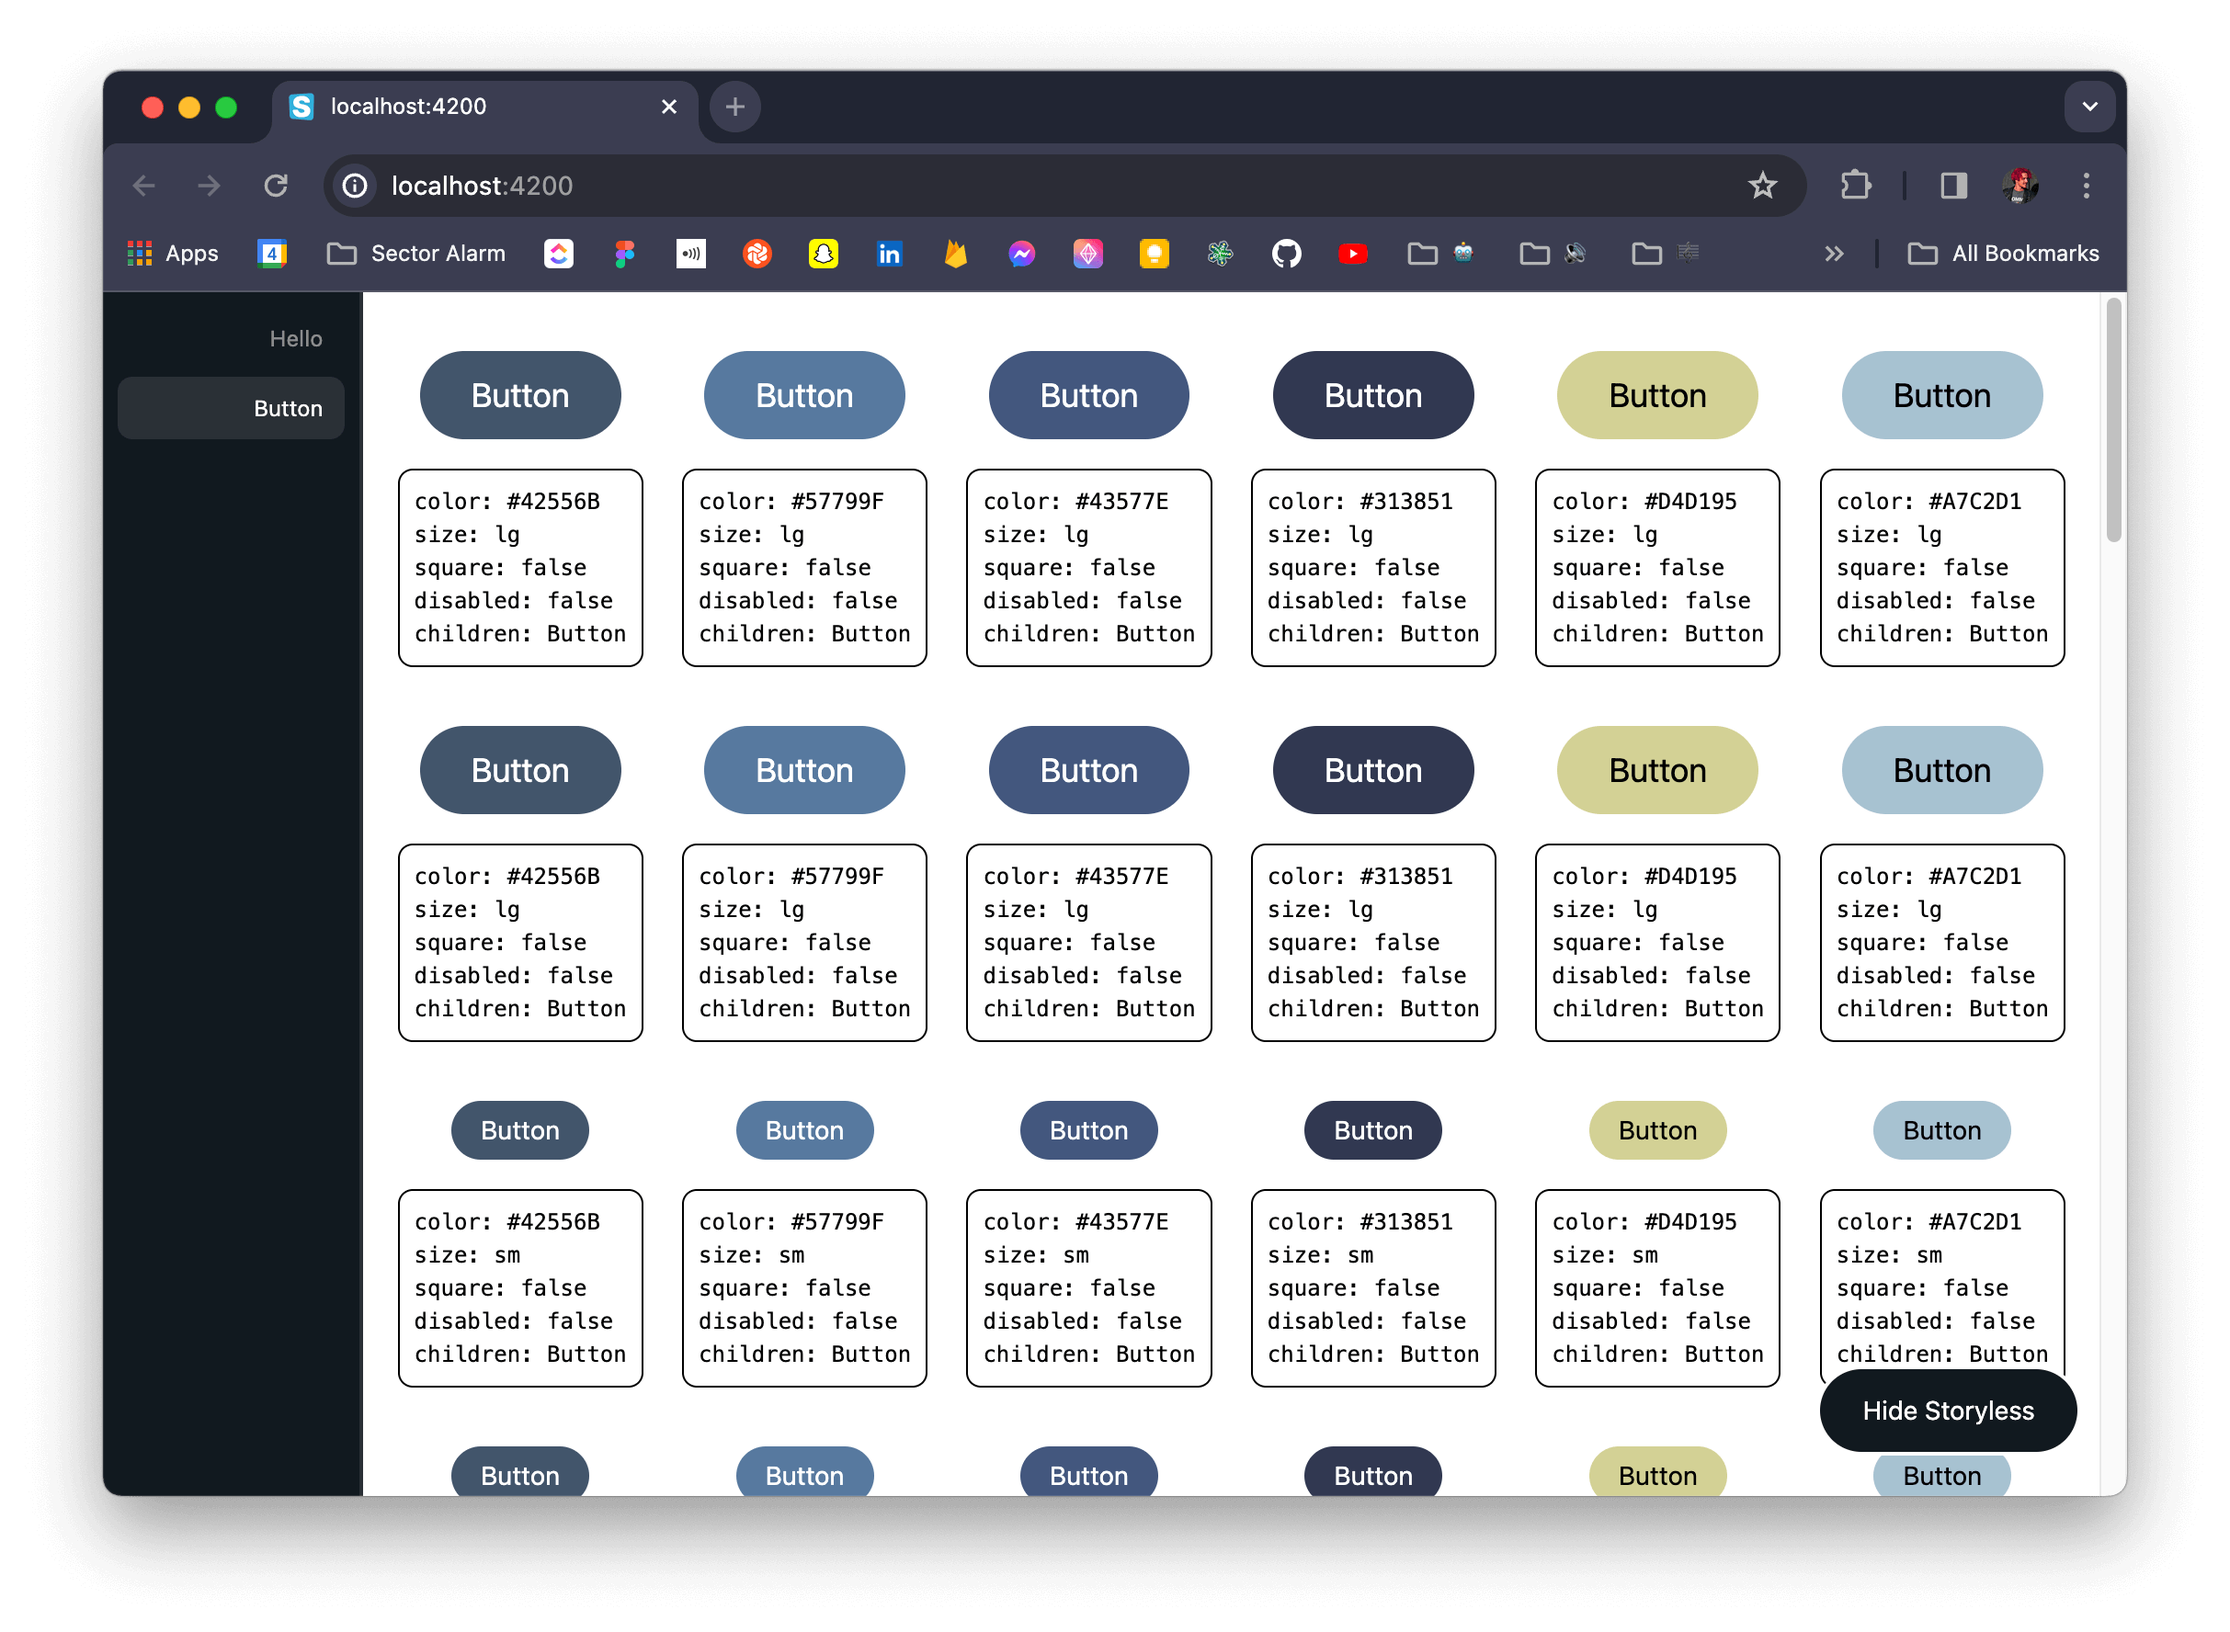
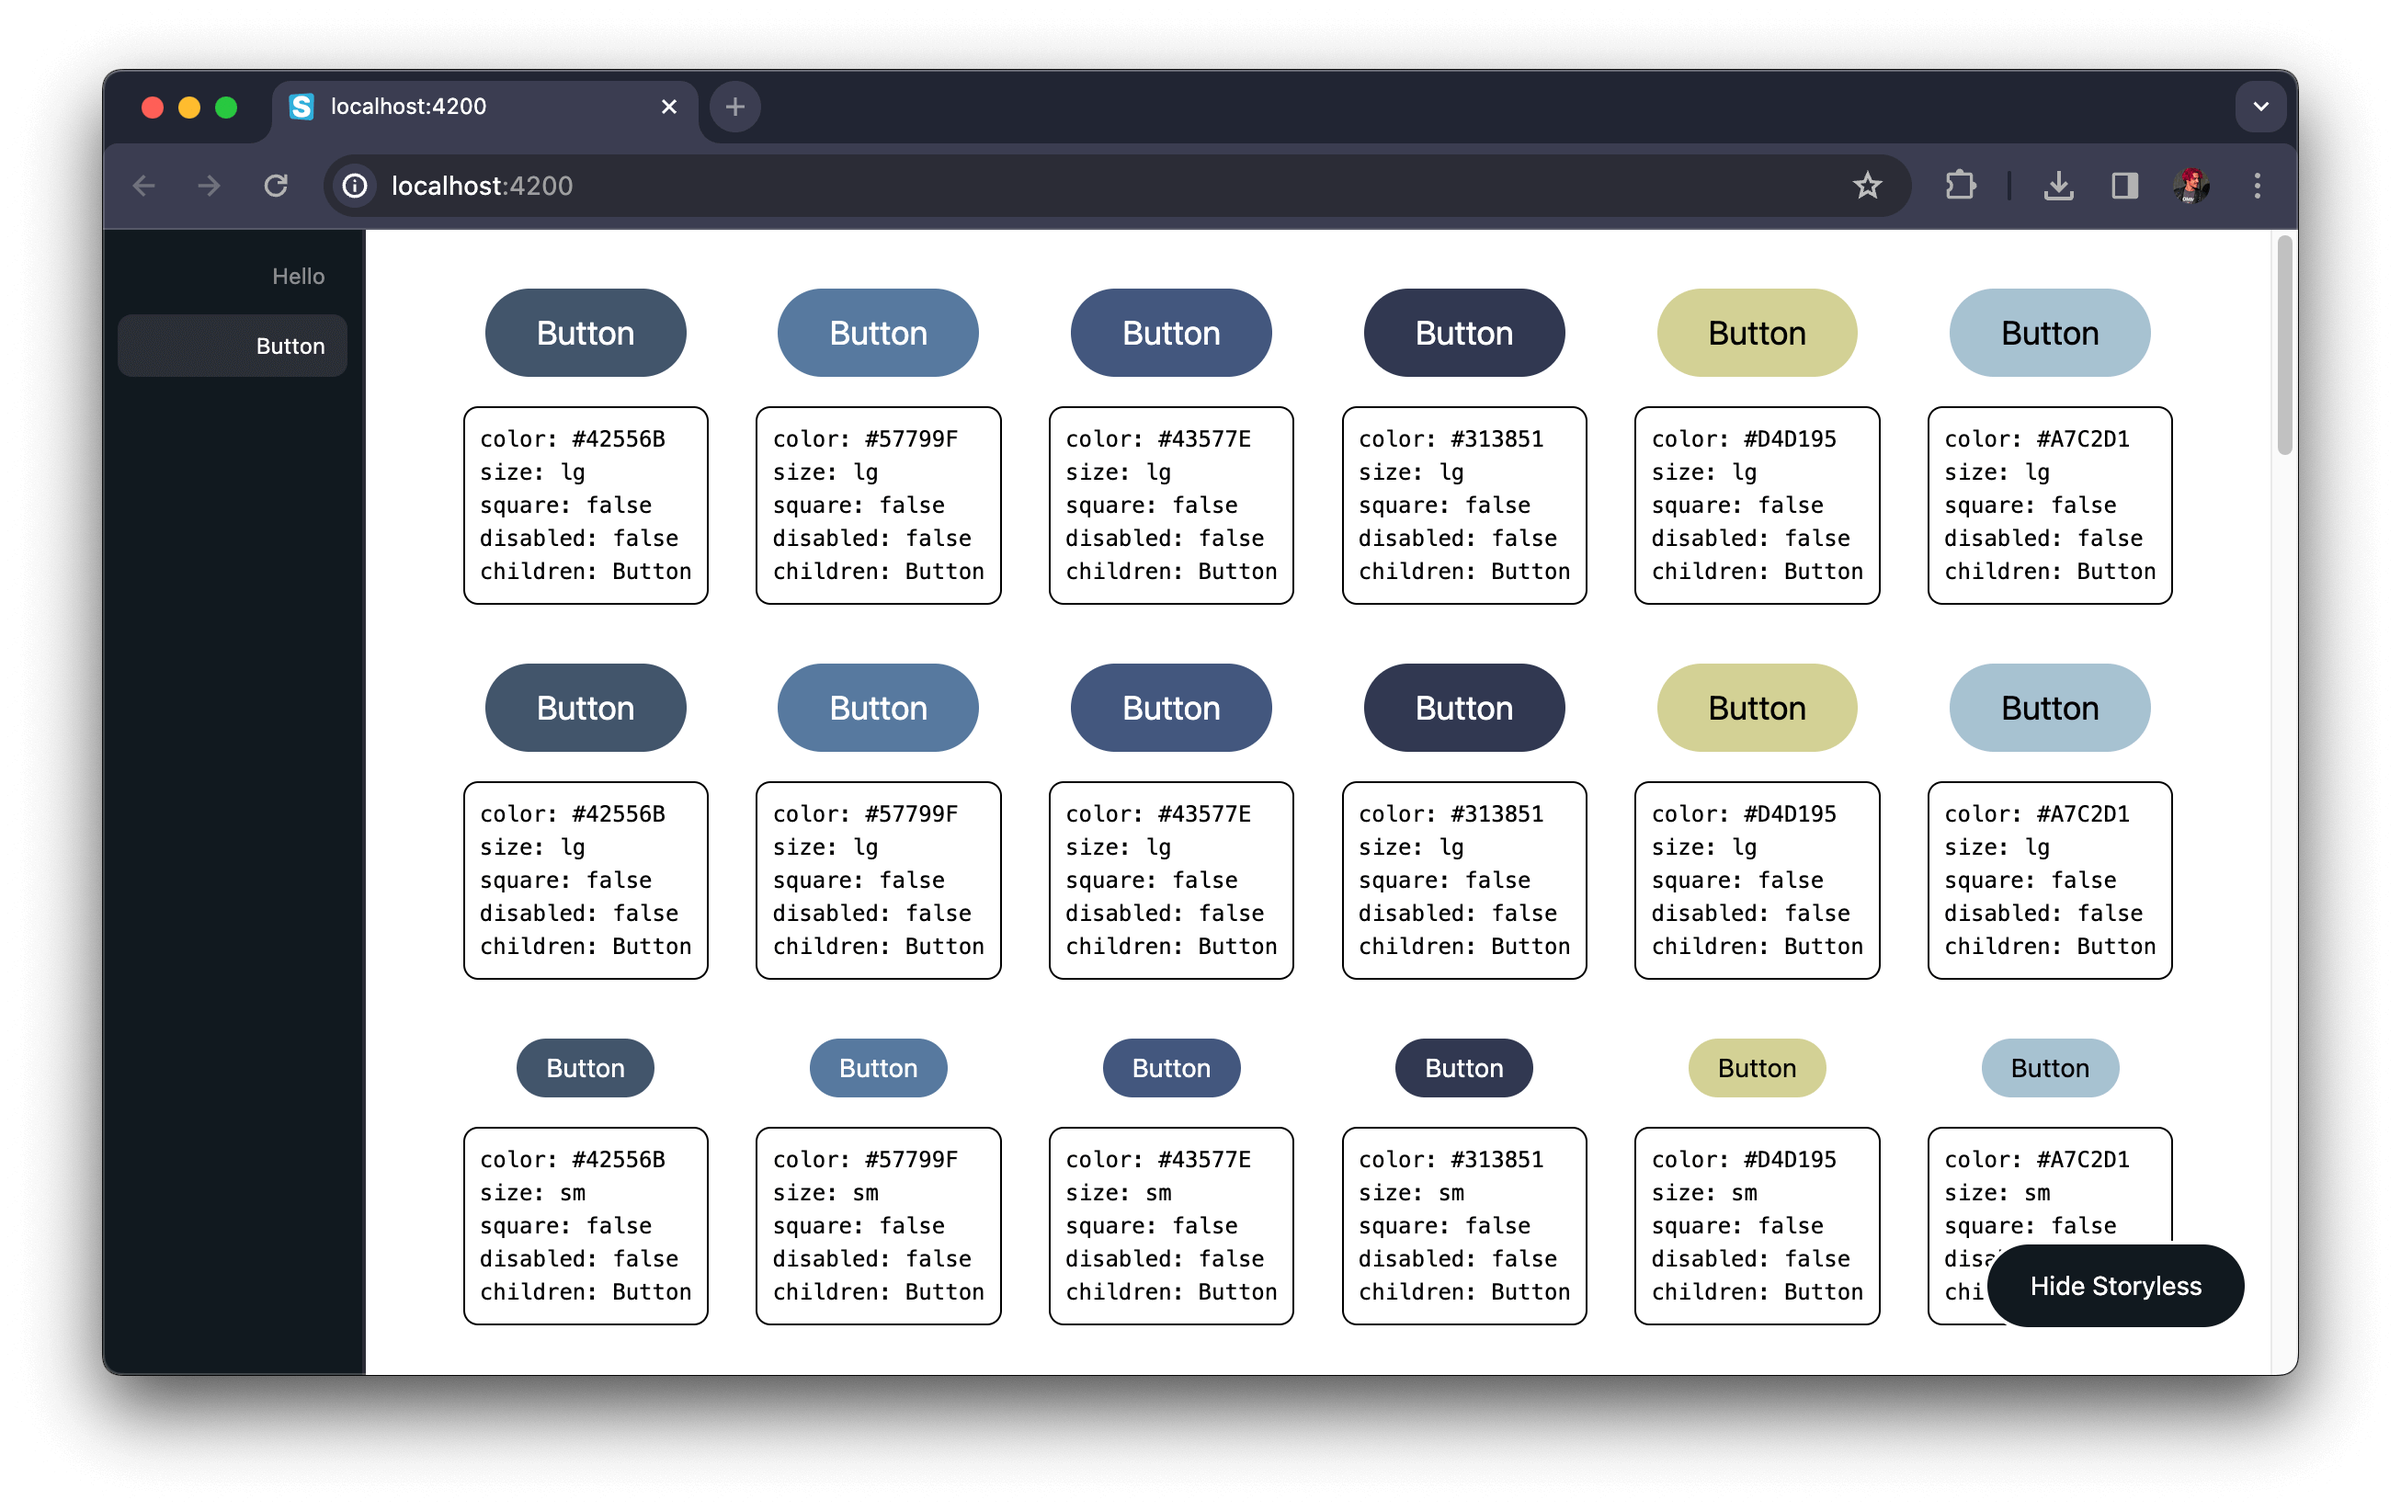
Cleaner images

Changed region(s): [[0.0309, 0.031, 0.9893, 0.9617], [0.4328, 0.4343, 0.5565, 0.4964]]

diff --git a/packages/react-storyless/combinations.tsx b/packages/react-storyless/combinations.tsx
@@ -78,6 +78,7 @@ export function Combinations<C extends ComponentType>({
         width: "100%",
         placeItems: "center",
         gap: "1rem",
+        padding: "1rem 3rem",
         gridTemplateColumns: `repeat(${_columns}, minmax(0, 1fr))`,
         ...props.style,
       }}

diff --git a/apps/docs/src/components/StorylessExample.tsx b/apps/docs/src/components/StorylessExample.tsx
@@ -102,5 +102,5 @@ const StorylessComponents: ComponentPropsWithoutRef<
 };
 
 export function StorylessExample(): JSX.Element {
-  return <Storyless components={StorylessComponents} wrapper={Wrapper} />;
+  return <Storyless components={StorylessComponents} />;
 }

diff --git a/packages/react-storyless/CHANGELOG.md b/packages/react-storyless/CHANGELOG.md
@@ -1,5 +1,11 @@
 # @storyless/react
 
+## 0.0.8
+
+### Patch Changes
+
+- Added Button import to docs
+
 ## 0.0.7
 
 ### Patch Changes
